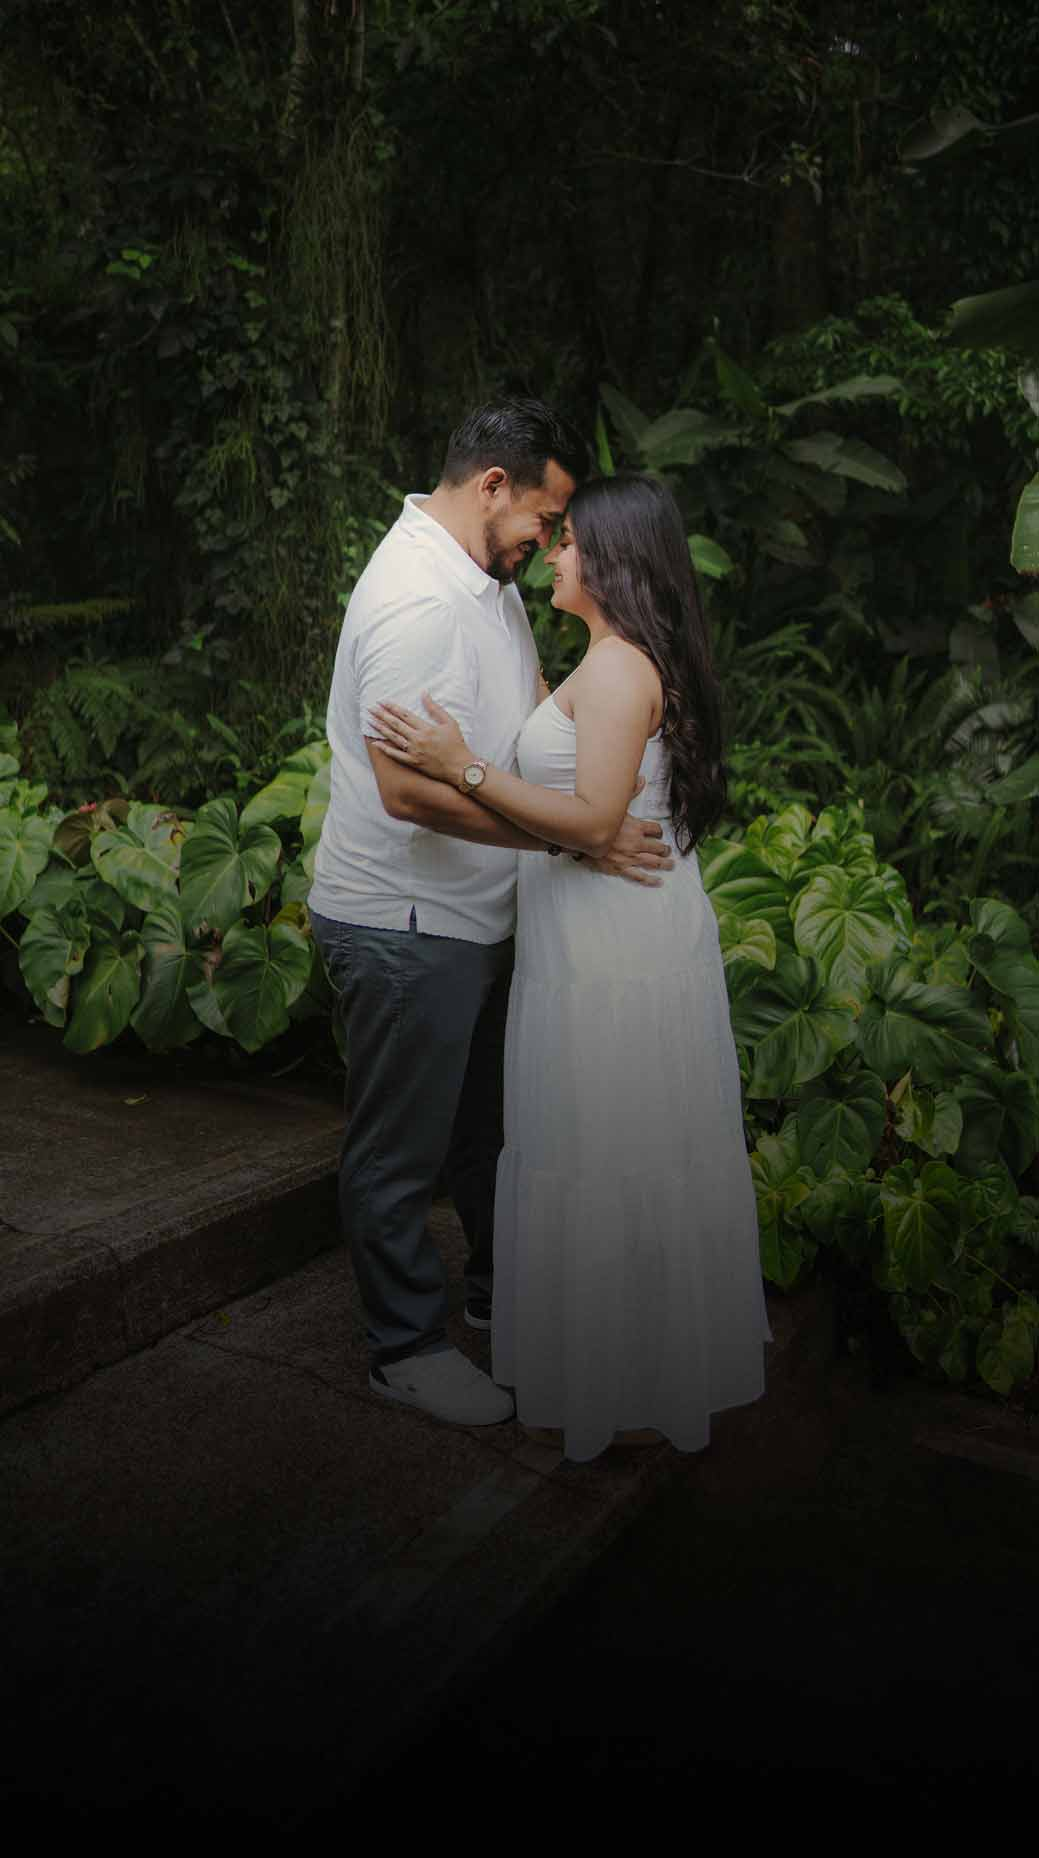
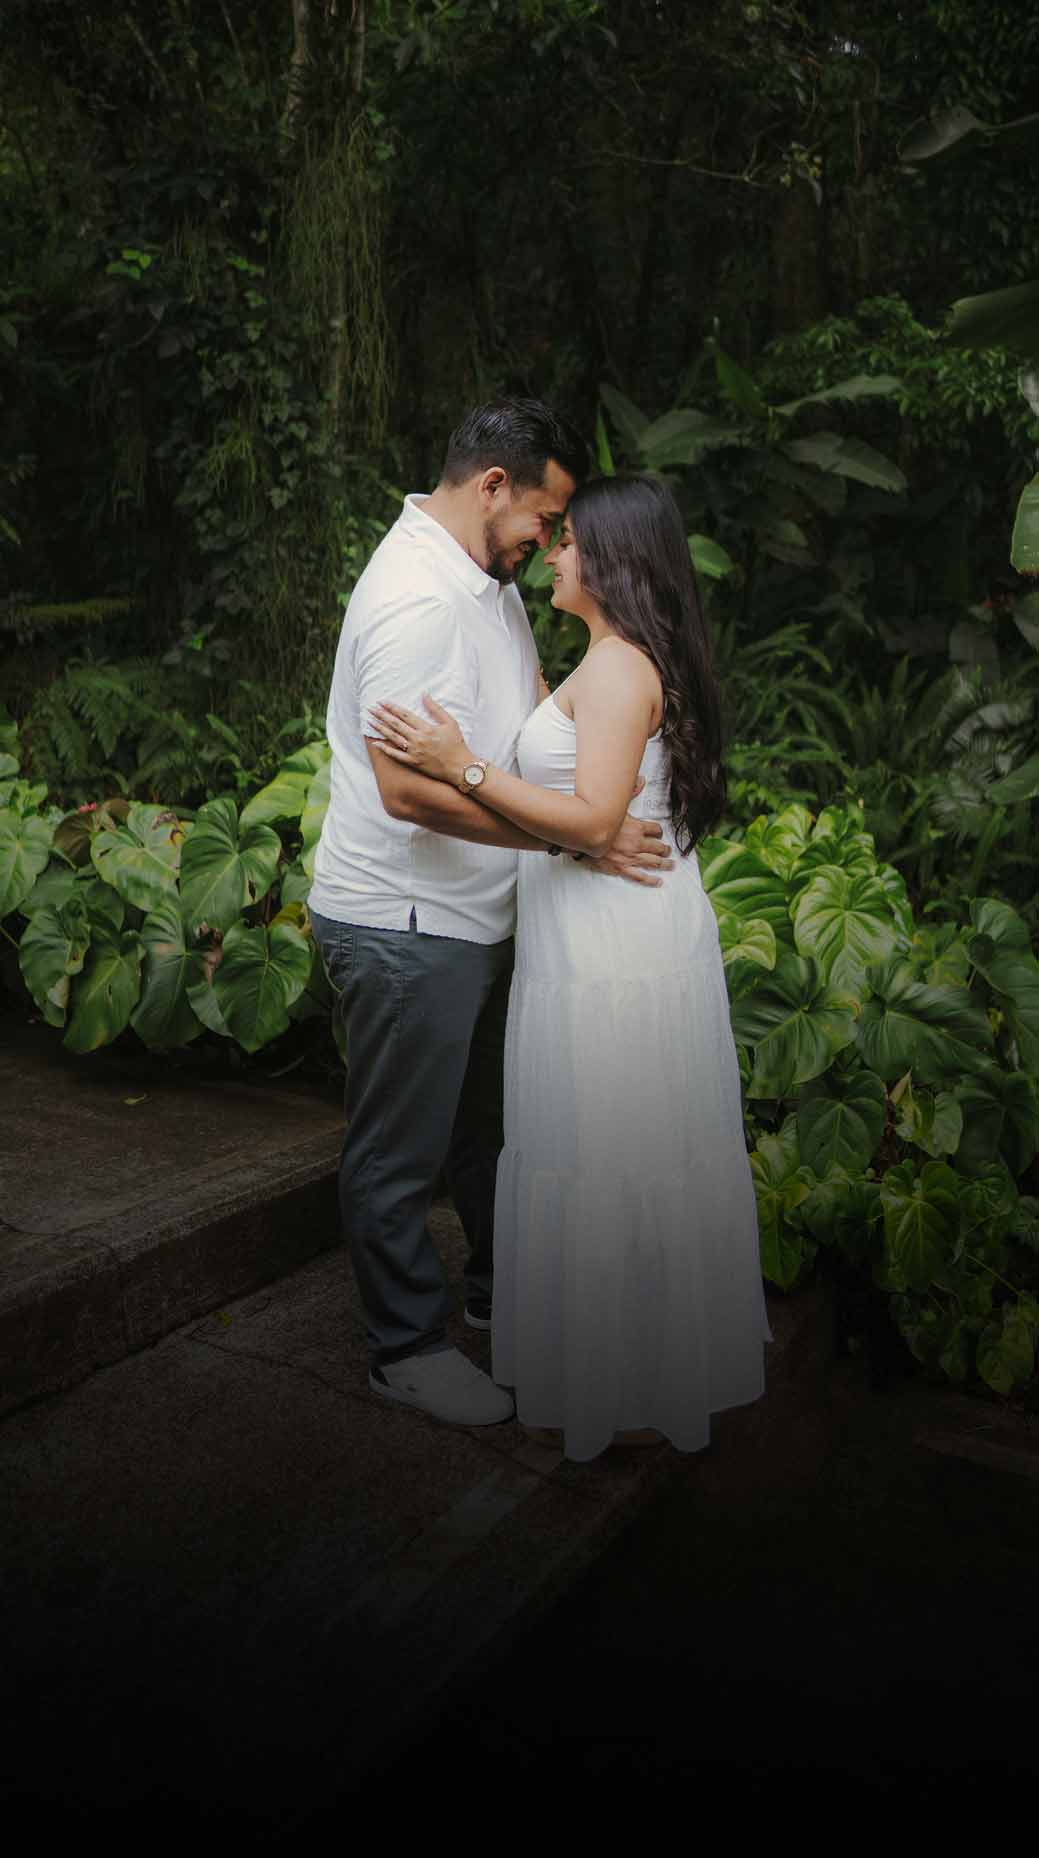
mobile and dekstop hero imageeeee

Changed region(s): [[0.2156, 0.3434, 0.77, 0.6243], [0.77, 0.4682, 0.8008, 0.4995], [0.154, 0.437, 0.1848, 0.4682]]

diff --git a/app/components/Hero.jsx b/app/components/Hero.jsx
@@ -24,8 +24,7 @@ export default function Hero({ guest }) {
     <div id="hero" className="h-screen relative flex items-center justify-center overflow-hidden">
       {/* Background Image */}
       <div 
-        className="absolute inset-0 bg-cover bg-center bg-no-repeat"
-        style={{ backgroundImage: 'url(/our-moments/01.jpg)' }}
+        className="absolute inset-0 bg-cover bg-center bg-no-repeat bg-[url('/bg-hero.jpg')] md:bg-[url('/bg-hero-desktop.jpg')]"
       />
       
       {/* Dark Olive Green Overlay */}
@@ -42,11 +41,11 @@ export default function Hero({ guest }) {
           transition={{ duration: 1, delay: 0.2 }}
           className="flex flex-col items-center mt-4 md:mt-8"
         >
-          <div className="text-[#F5F1E8] font-playfair text-xl tracking-[0.2em] mb-4">
-            M <span className="mx-2 text-[#C8A96B]">|</span> L
+          <div className="mb-4">
+            <img src="/logo.png" alt="Logo" className="h-16 md:h-20 w-auto object-contain mx-auto" />
           </div>
-          <p className="text-[10px] md:text-xs tracking-[0.3em] uppercase text-[#C8A96B] font-light">
-            Nuestra Boda
+          <p className="text-sm md:text-base tracking-[0.3em] uppercase text-[#F5F1E8] font-medium">
+            NUESTRA BODA
           </p>
         </motion.div>
 
@@ -55,16 +54,16 @@ export default function Hero({ guest }) {
           initial={{ opacity: 0, scale: 0.95 }}
           animate={{ opacity: 1, scale: 1 }}
           transition={{ duration: 1.5, delay: 0.5 }}
-          className="flex flex-col items-center justify-center my-auto"
+          className="flex flex-col items-center justify-center mt-auto mb-8 md:mb-14"
         >
           <h1 className="font-playfair text-6xl md:text-8xl lg:text-9xl text-[#F5F1E8] font-thin leading-[0.9]">
-            Mich
+            Michelle
           </h1>
-          <div className="font-script italic text-5xl md:text-7xl text-[#C8A96B] my-2 md:my-4">
-            &
+          <div className="my-3 md:my-5">
+            <img src="/and.png" alt="&" className="h-10 md:h-14 w-auto object-contain mx-auto" />
           </div>
           <h1 className="font-playfair text-6xl md:text-8xl lg:text-9xl text-[#F5F1E8] font-thin leading-[0.9]">
-            Lalo
+            Eduardo
           </h1>
         </motion.div>
 
@@ -75,12 +74,13 @@ export default function Hero({ guest }) {
           transition={{ duration: 1, delay: 0.8 }}
           className="flex flex-col items-center mb-4 md:mb-8"
         >
-          <div className="mb-8 space-y-2">
-            <p className="text-xs md:text-sm tracking-[0.2em] uppercase text-[#F5F1E8] font-light">
-              {settings.wedding.displayDate}
+          <div className="flex flex-col items-center mb-8 space-y-3">
+            <img src="/guirnalda.png" alt="Guirnalda" className="w-28 md:w-36 h-auto object-contain mb-2" />
+            <p className="text-xs md:text-sm tracking-[0.2em] uppercase text-[#F5F1E8] font-light whitespace-nowrap">
+              SÁBADO 8 • AGOSTO • 2026
             </p>
-            <p className="text-[10px] md:text-xs tracking-[0.15em] uppercase text-[#F5F1E8]/70 font-light">
-              {settings.venue.name} <br/> Veracruz, México
+            <p className="text-[10px] md:text-xs tracking-[0.15em] uppercase text-[#F5F1E8] font-light whitespace-nowrap">
+              QUINTA RIO HJ, VERACRUZ
             </p>
           </div>
 
